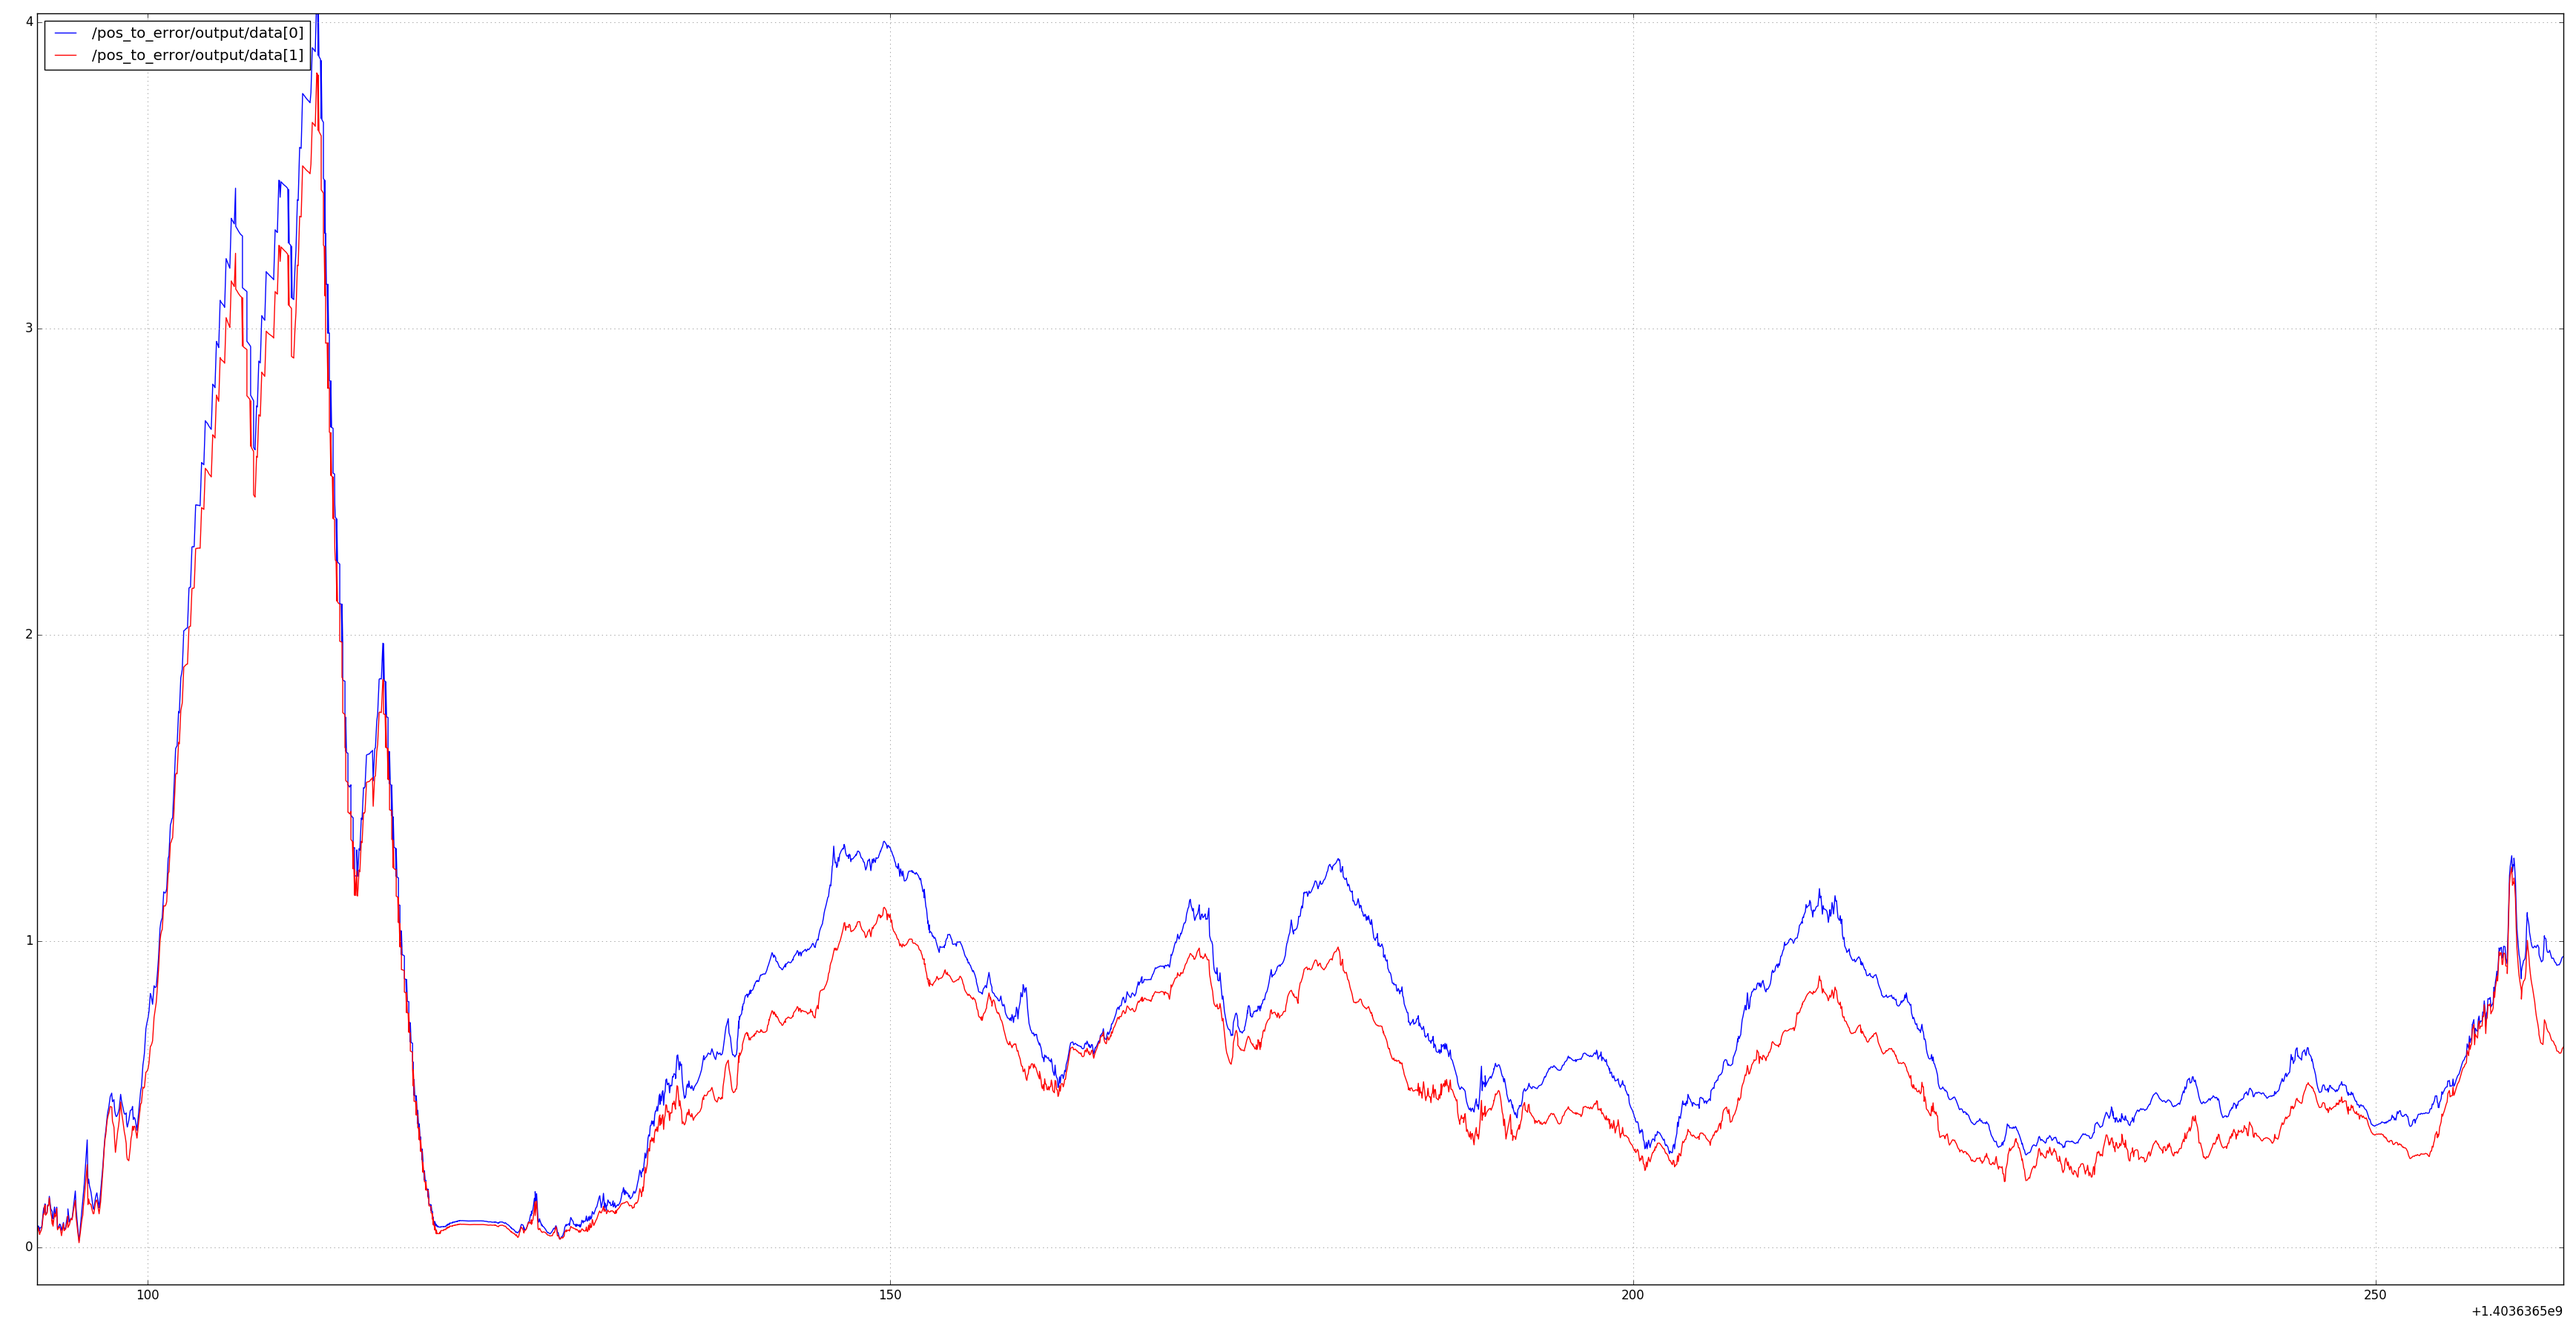
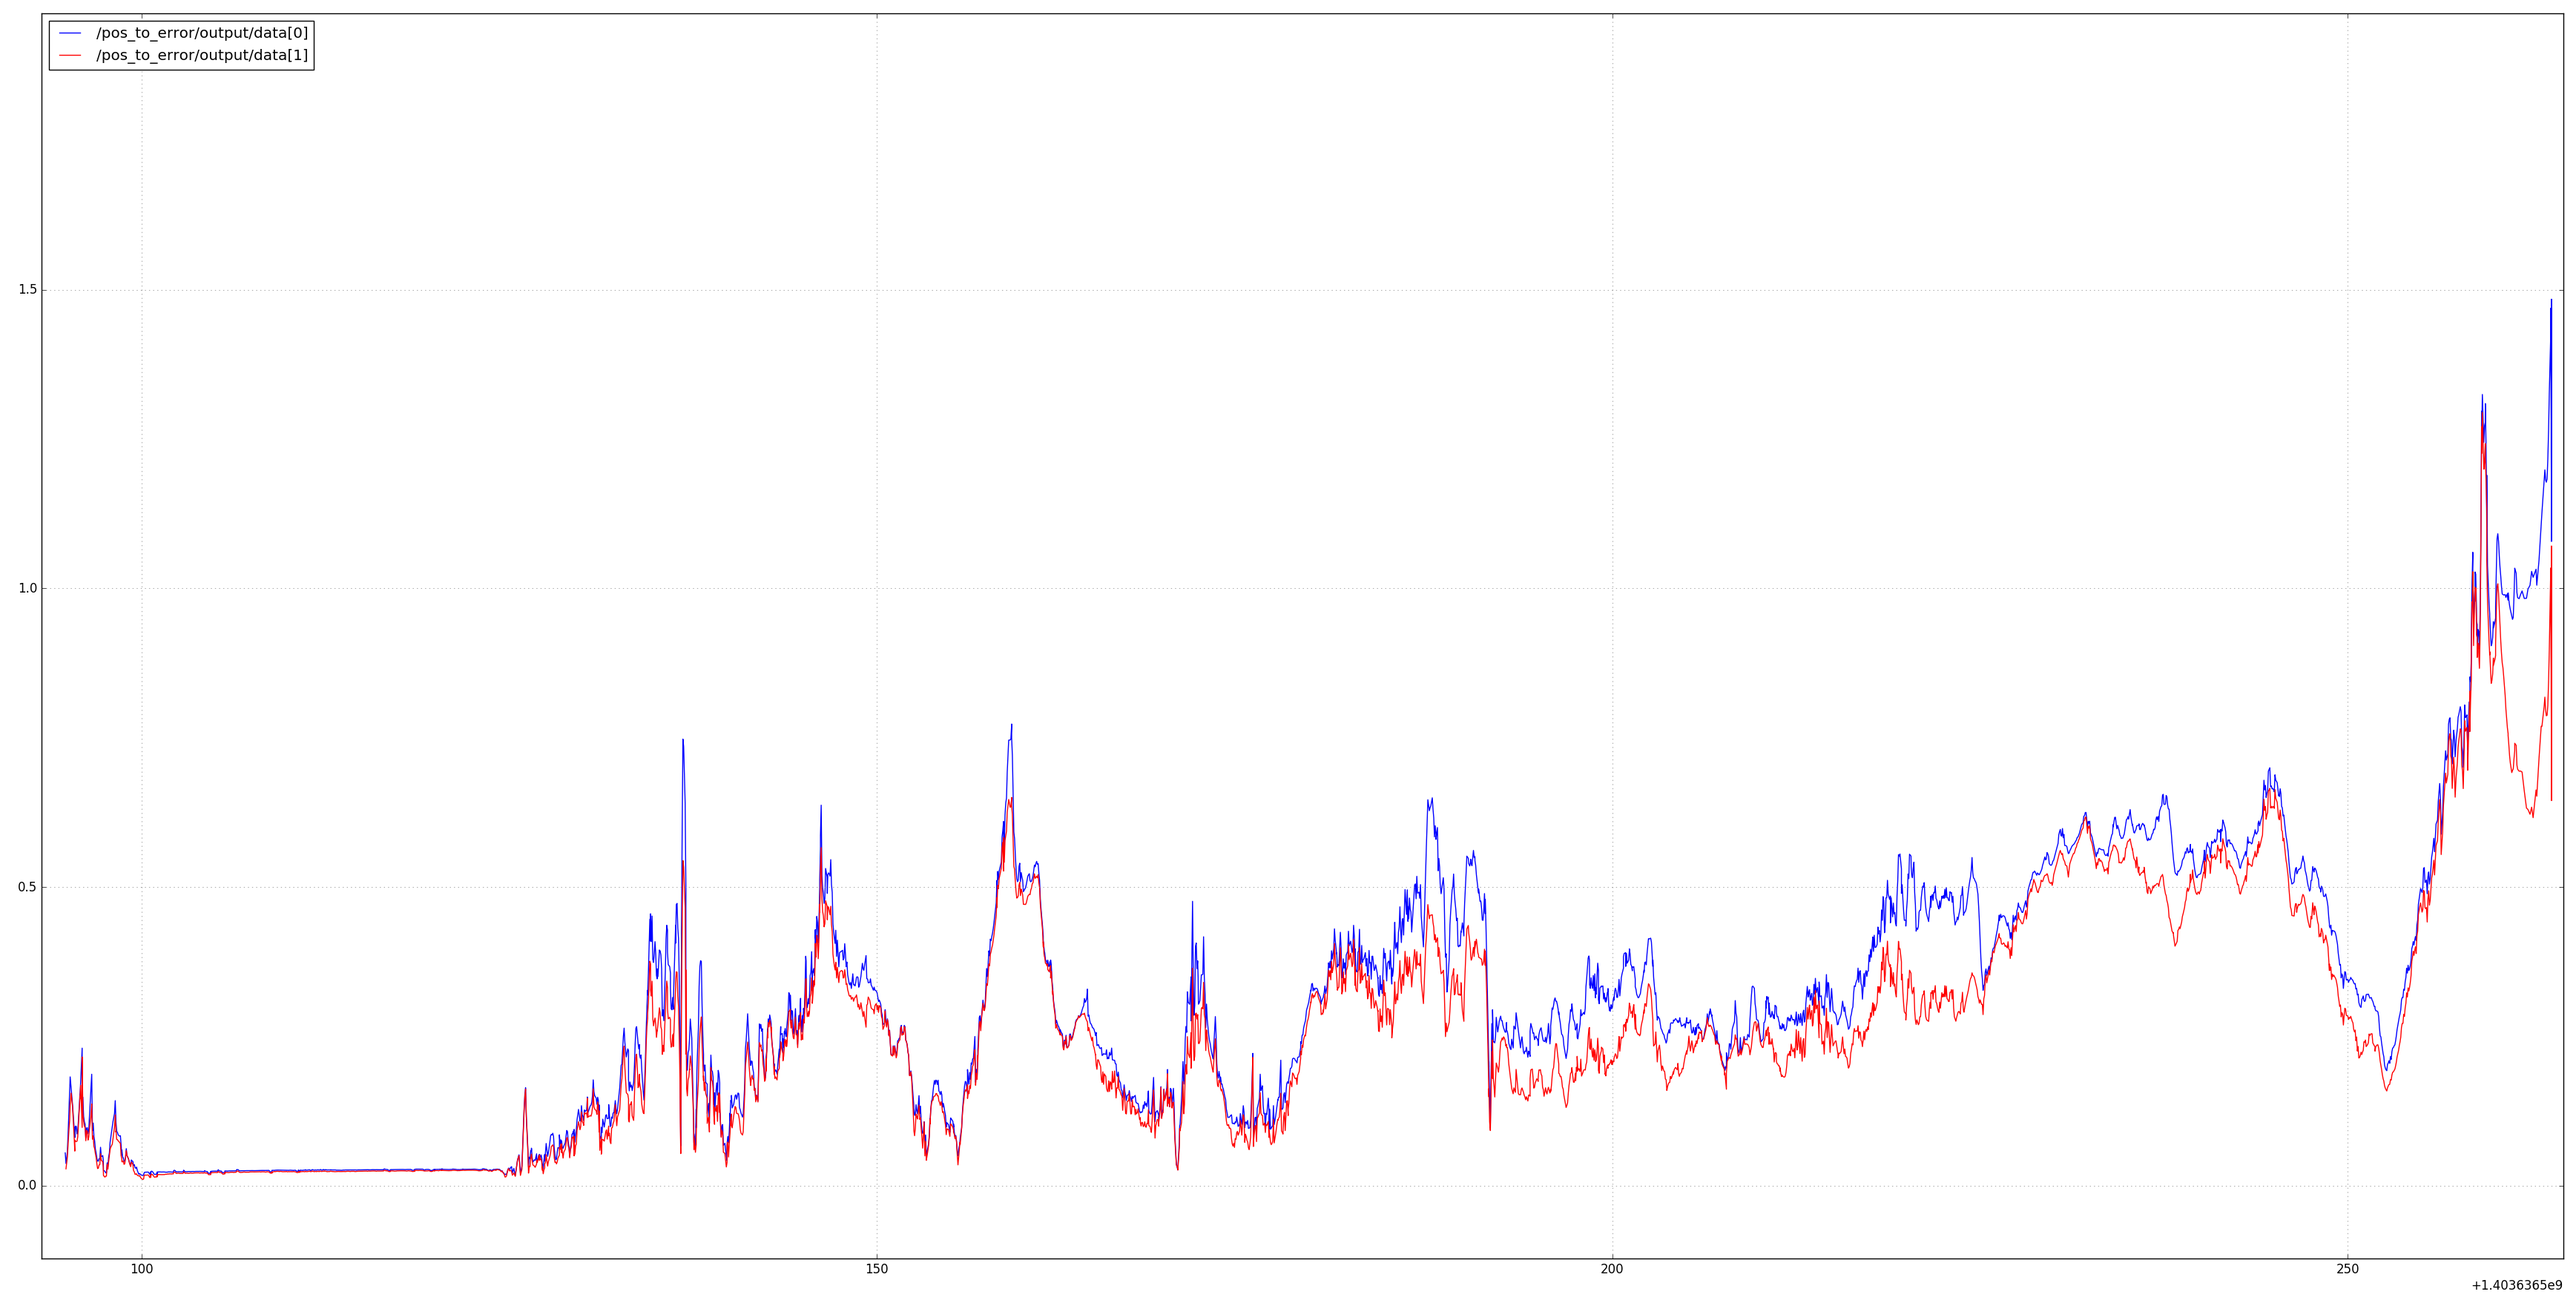
small changes and better transformation, clean commit

diff --git a/msf_updates/Python/position_to_error_handler/transformation_functions.py b/msf_updates/Python/position_to_error_handler/transformation_functions.py
@@ -11,13 +11,41 @@ from math import sqrt
 
 def quaternion_to_matrix(quaternion):
   assert len(quaternion)==4
+  """
   q=np.reshape(quaternion/np.linalg.norm(quaternion), (4,1))
   qquad=np.matmul(q,np.transpose(q))
   return np.array([
     [1.0-qquad[2,2]-qquad[3, 3],     qquad[1, 2]-qquad[3, 0],     qquad[1, 3]+qquad[2, 0]],
     [    qquad[1, 2]+qquad[3, 0], 1.0-qquad[1, 1]-qquad[3, 3],     qquad[2, 3]-qquad[1, 0]],
     [    qquad[1, 3]-qquad[2, 0],     qquad[2, 3]+qquad[1, 0], 1.0-qquad[1, 1]-qquad[2, 2]]])
-    
+  """
+  rotation=np.zeros((3,3))
+  sqw=quaternion[0]*quaternion[0]
+  sqx=quaternion[1]*quaternion[1]
+  sqy=quaternion[2]*quaternion[2]
+  sqz=quaternion[3]*quaternion[3]
+  invs=1/(sqw+sqx+sqy+sqz)
+  rotation[0,0]=(sqx-sqy-sqz+sqw)*invs
+  rotation[1,1]=(-sqx+sqy-sqz+sqw)*invs
+  rotation[2,2]=(-sqx-sqy+sqz+sqw)*invs
+   
+  tmp1=quaternion[1]*quaternion[2]
+  tmp2=quaternion[3]*quaternion[0]
+  rotation[1,0]=2*(tmp1+tmp2)*invs
+  rotation[0,1]=2*(tmp1-tmp2)*invs
+  
+  tmp1=quaternion[1]*quaternion[3]
+  tmp2=quaternion[2]*quaternion[0]
+  rotation[2,0]=2*(tmp1-tmp2)*invs
+  rotation[0,2]=2*(tmp1+tmp2)*invs
+  
+  tmp1=quaternion[2]*quaternion[3]
+  tmp2=quaternion[1]*quaternion[0]
+  rotation[2,1]=2*(tmp1+tmp2)*invs
+  rotation[1,2]=2*(tmp1-tmp2)*invs
+   
+  return rotation
+   
 #estimates the best transformation based on 2 point clouds represented by (3,n) matrices
 def estimate_transformation(pointsfrom, pointsto):
   #make sure matrices have same dimensions
@@ -28,22 +56,11 @@ def estimate_transformation(pointsfrom, pointsto):
 
   npoints=pointsfrom.shape[1]
   #print(npoints)
-  comfrom=np.sum(pointsfrom, axis=1)/npoints
-  #print(comfrom)
-  comto=np.sum(pointsto, axis=1)/npoints
-  #print(comto)
-  #print(pointsfrom[:,0])
-  #print(comfrom)
-  #print(pointsto[:,0])
-  #print(comto)
-  #print(np.matmul(np.reshape(pointsfrom[:,0]-comfrom,(3,1)), np.reshape(pointsto[:,0]-comto,(1,3))))
-  #H_test=np.zeros((3,3))
-  #for i in range(npoints):
-  #  H_test+=np.matmul(np.reshape(pointsfrom[:,i]-comfrom,(3,1)), np.reshape(pointsto[:,i]-comto,(1,3)))
-  #print(H_test)
-  #comfrommat=np.matmul(np.reshape(comfrom, (1,3)),np.ones((3,npoints)))
-  #comtomat=np.matmul(np.reshape(comto,(1,3)),np.ones((3,npoints)))
-  #H=np.matmul((pointsfrom-comfrommat), np.transpose(pointsto-comtomat))
+  comfrom=np.mean(pointsfrom, axis=1)
+  print(comfrom)
+  comto=np.mean(pointsto, axis=1)
+  print(comto)
+
   H=sum(np.matmul(np.reshape(pointsfrom[:,i]-comfrom,(3,1)), np.reshape(pointsto[:,i]-comto,(1,3))) for i in range(npoints))
   #print(H)
   U,s,V=np.linalg.svd(H)
@@ -74,20 +91,17 @@ def rot_to_quat(rotation):
   m21=rotation[2,1]
   m22=rotation[2,2]
   tr = m00 + m11 + m22
-  tol=0.001
-  if tr > 0+tol:
-    S = sqrt(tr+1.0) * 2; # S=4*qw 
-    qw = 0.25 * S;
-    qx = (m21 - m12) / S;
-    qy = (m02 - m20) / S; 
-    qz = (m10 - m01) / S; 
-  elif m00 > m11+tol and m00 > m22+tol: 
+  tr1=1+m00-m11-m22
+  tr2=1-m00+m11-m22
+  tr3=1-m00-m11+m22
+  tol=0.00001
+  if tr1>tr2 and tr2>tr3: 
     S = sqrt(1.0 + m00 - m11 - m22) * 2; # S=4*qx 
     qw = (m21 - m12) / S;
     qx = 0.25 * S;
     qy = (m01 + m10) / S; 
     qz = (m02 + m20) / S; 
-  elif m11+tol > m22+tol: 
+  elif tr2>tr1 and tr2>tr3: 
     S = sqrt(1.0 + m11 - m00 - m22) * 2; # S=4*qy
     qw = (m02 - m20) / S;
     qx = (m01 + m10) / S; 

diff --git a/msf_updates/Python/position_to_error_handler/estimate_beset_transform.py b/msf_updates/Python/position_to_error_handler/estimate_beset_transform.py
@@ -1,0 +1,83 @@
+#!/usr/bin/env python
+
+
+
+#This code is used to estimate the best transform for data comming from 2 csv files
+#they are supposed to have the following structure: timestamp, pos_x, pos_y, pos_z
+#it goes throug the whole file matching points according to their timestamp and outputs the 
+#transfromation as: translation, quaternion, rotationmatrix (3x3)
+#(c) Yannick Huber (huberya)
+
+
+
+
+import numpy as np
+import csv
+import os
+import sys
+import math
+#sys.path.insert(0, '~/catkin_ws/src/ethzasl_msf/msf_core')
+from transformation_functions import estimate_transformation, transform_point, quaternion_to_matrix, rot_to_quat
+
+      
+if __name__ == '__main__':
+  if len(sys.argv)!=3:
+    print("usage: python estimate_best_transform.py <csvfrom> <csvto>")
+    sys.exit()
+  fromframe=sys.argv[1]
+  toframe=sys.argv[2]
+  fromcsv=open(fromframe, "r")
+  tocsv=open(toframe, "r")
+  #print(len(list(csv.reader(fromcsv))))
+  fromreader=np.transpose(np.asarray(list(csv.reader(fromcsv))[1:], dtype=float))
+  toreader=np.transpose(np.asarray(list(csv.reader(tocsv))[1:], dtype=float))
+  #start reading at line 1 (i.e. second line) since first is expected to be header
+  #search for matching starttime
+  fromline=1
+  toline=1
+  frommax=fromreader.shape[1]-2
+  tomax=toreader.shape[1]-2
+  if fromreader[0, 1]<toreader[0, 1]:
+    while fromreader[0, fromline]<toreader[0, toline]:
+      fromline+=1
+      if fromline>=fromreader.shape[1]:
+        print("no matching times found. Do your files agree on timestamp?")
+        sys.exit()
+  else:
+     while toreader[0, toline]<fromreader[0, fromline]:
+      toline+=1
+      if toline>=toreader.shape[1]:
+        print("no matching times found. Do your files agree on timestamp?")
+        sys.exit()
+  #do same from back to front so we have a window were times match (somehow)
+  if fromreader[0, frommax]<toreader[0, tomax]:
+    while fromreader[0, frommax]<toreader[0, tomax]:
+      tomax-=1
+      #here no strange exception can happen or we would already have discovered it above
+  else:
+     while toreader[0, tomax]<fromreader[0, frommax]:
+      frommax-=1
+      #same
+  #now for [fromline, frommax] and [toline, tomax] the times match approximately (not 1 by 1)
+  #set stepsize according to their sizes
+  print("using data from to")
+  print(fromline)
+  print(frommax)
+  tostep=1.0
+  fromstep=(frommax-fromline)/(tomax-toline)
+  #initialize big zero matrices
+  frompoints=np.zeros((3,tomax-toline))
+  topoints=np.zeros((3,tomax-toline))
+  for i in range(tomax-toline):
+    topoints[:,i]=toreader[1:4, toline+i]
+    evalpoint=fromline+i*fromstep
+    fraction=evalpoint-math.floor(evalpoint)
+    frompoints[:,i]=(1-fraction)*fromreader[1:4, int(math.floor(evalpoint))]-fraction*fromreader[1:4, int(math.ceil(evalpoint))]
+  #gives best transform from frompoints to topoints
+  print("printing points")
+  print(frompoints.shape)
+  print("done")
+  [translation, rotation]=estimate_transformation(frompoints, topoints)
+  print(translation)
+  print(rot_to_quat(rotation))
+  print(rotation)

diff --git a/msf_updates/src/position_pose_msf/position_pose_sensormanager.h b/msf_updates/src/position_pose_msf/position_pose_sensormanager.h
@@ -281,7 +281,17 @@ bool InitScale(sensor_fusion_comm::InitScale::Request &req,
 
     MSF_INFO_STREAM(
         "initial measurement pos:["<<p_vc.transpose()<<"] orientation: "<<STREAMQUAT(q_cv));
-
+    MSF_WARN_STREAM("We are in Init function");
+    if (!pose_handler_->ReceivedFirstMeasurement())
+    {
+        MSF_WARN_STREAM(
+          "Pose sensor did not recieve any measurement yet");
+        }
+    if (!position_handler_->ReceivedFirstMeasurement())
+    {
+        MSF_WARN_STREAM(
+          "Position sensor did not recieve any measurement yet");
+    }
     // Check if we have already input from the measurement sensor.
     if (p_vc.norm() == 0)
       MSF_WARN_STREAM(

diff --git a/msf_updates/Python/position_to_error_handler/helper.py b/msf_updates/Python/position_to_error_handler/helper.py
@@ -1,9 +1,15 @@
 import numpy as np
-from transformation_functions import rot_to_quat
+from transformation_functions import rot_to_quat, quaternion_to_matrix
 
-rotation=np.array([[0.33638, -0.01749,  0.94156],
-          [-0.02078, -0.99972, -0.01114],
-          [0.94150, -0.01582, -0.33665]])
+rotation=np.array([[-0.9641744, 0.26524756, -0.00338395],
+          [-0.26526245, -0.96416224, 0.00519704],
+          [-0.00188418, 0.00590849, 0.99998077]])
 print(rotation)
 quat=rot_to_quat(rotation)
 print(quat)
+
+print("testing functions")
+rot=rotation
+print(rot)
+print(rot_to_quat(rot))
+print(quaternion_to_matrix(rot_to_quat(rot)))
